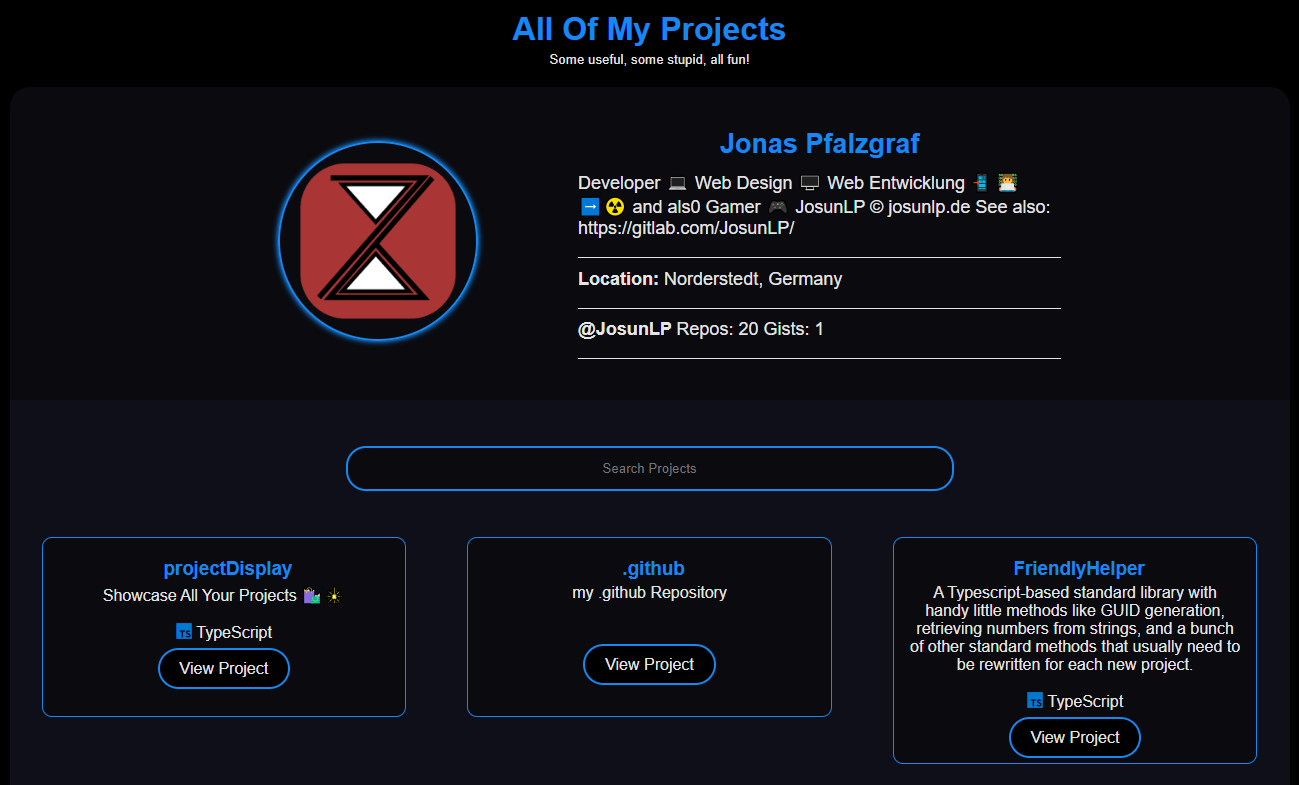
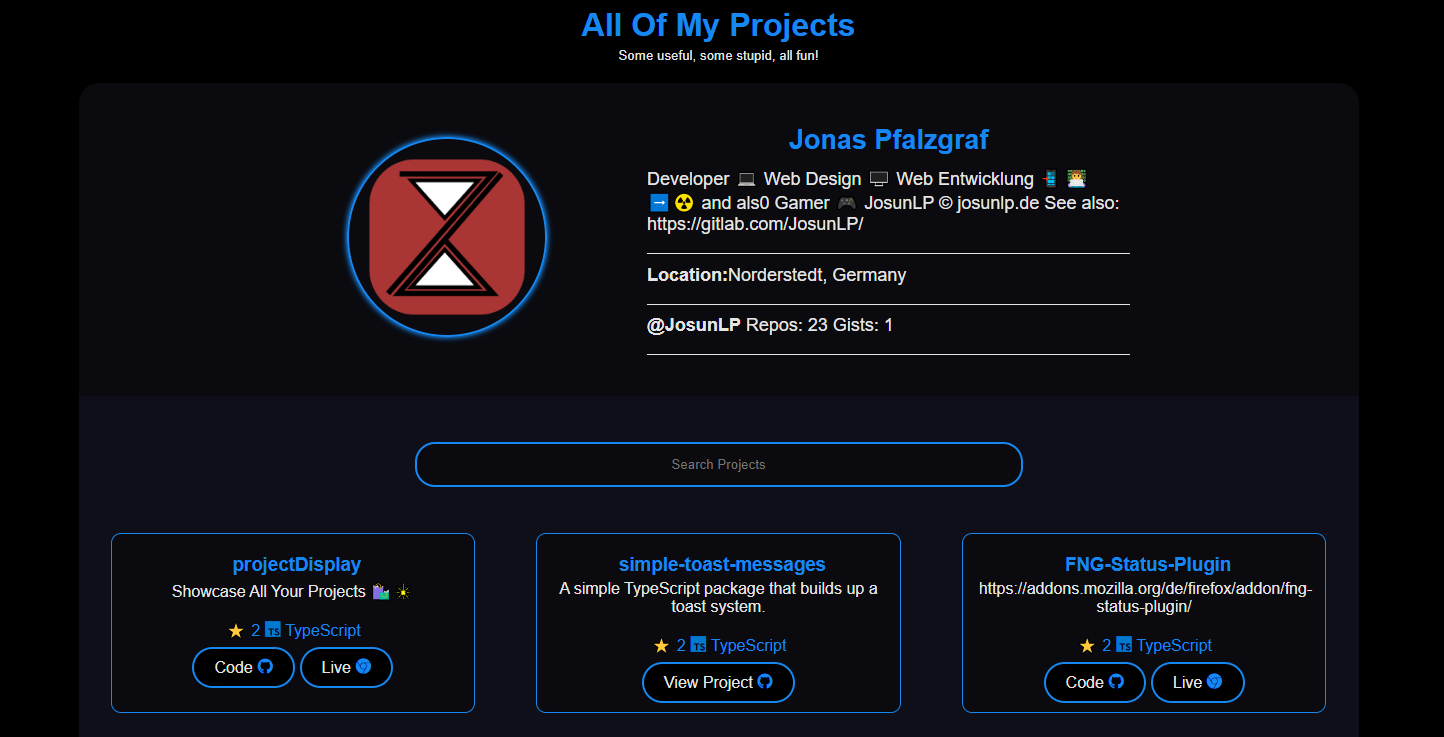
adding light theme

diff --git a/README.md b/README.md
@@ -62,7 +62,18 @@ You can also edit the fetch query to reduce the per page repo count.
 
 > There's no pagination, all repos are shown on the same page.
 
-#### Programming Language Icons
+### Forked Repos
+
+Forked repos are hidden by default, to show them set `default_profile.hideForks = false` in `configurtation.ts`
+
+### Themes
+
+Comes with a dark and light theme by default, depends upon your system configs.
+Edit the variables under `:root` in `styles.css` to modify colorscheme.
+
+![Light screenshot](./src/images/screenshot_light.png)
+
+### Programming Language Icons
 
 This project uses [Devicon](https://devicon.dev/) for adding language icons, if the language name and icon are not being
 displayed correctly for any of your repos, update `devicons` mapping in `src/constants/devicons.ts`.
